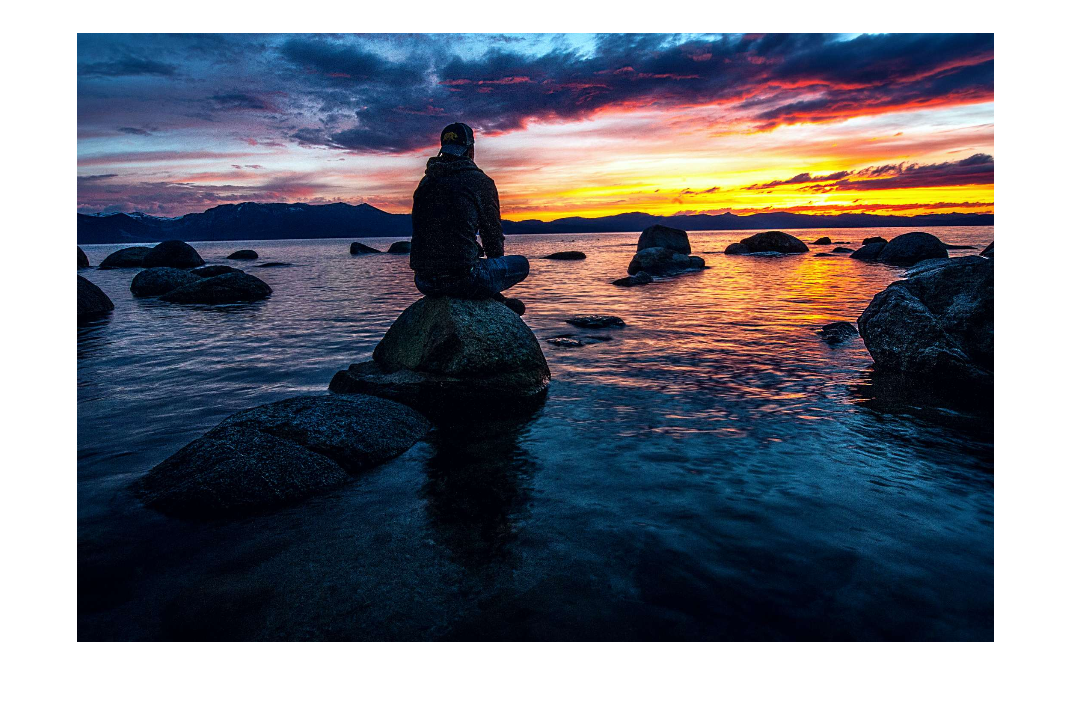
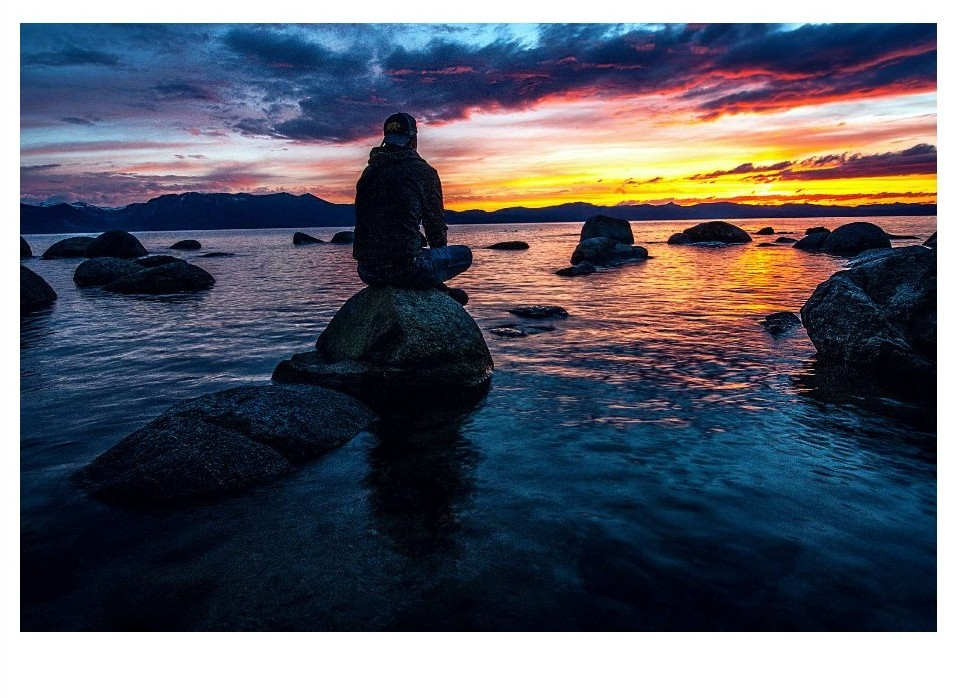
Images Updated, Sections done, Working On Animations

diff --git a/css/style.css b/css/style.css
@@ -3,7 +3,7 @@ font-family: 'Arapey', serif;
 font-family: 'Reem Kufi', sans-serif;*/
 body {
     margin: 0;
-    font-family: 'Reem Kufi', sans-serif;
+    font-family: 'Reem Kufi', sans-serif;position: relative;
 }
 .Hero {
     height: 100vh;
@@ -15,6 +15,8 @@ body {
     flex-direction: column;
     justify-content: center;
     align-items: center;
+    position: absolute;
+    z-index: 1000;
 }
 
 .Logo {
@@ -69,17 +71,16 @@ body {
 .destination1 {
     position:absolute;
     bottom: -70px;
-    left: 0px;
-    width: 600px;
+    left: 120px;
+    width: 300px;
 }
 
 .destination2 {
     position:absolute;
     width: 500px;
     top: 150px;
-    right: 0px;
+    right: 140px;
     z-index: 1;
-    padding-right: 140px;
 }
 
 .destination3 {
@@ -94,9 +95,7 @@ body {
     position:absolute;
     width: 500px;
     bottom: 0px;
-    right: 0px;
-    padding-right: 140px;
-    
+    right: 140px;    
 }
 
 .Section2 {
@@ -118,8 +117,7 @@ body {
     position:absolute;
     width: 250px;
     top: 120px;
-    left: 0;
-    padding-left: 140px;
+    left: 140px;
 }
 
 .adventure2 {
@@ -133,13 +131,116 @@ body {
     position:absolute;
     width: 450px;
     top: 650px;
-    left: -20px;
-    padding-left: 140px;
+    left: 120px;
 }
 
 .adventure4 {
     position:absolute;
-    width: 600px;
+    width: 340px;
     top: 550px;
-    left: 400px;
+    left: 600px;
+}
+
+.Section3 {
+    height: 100vh;
+    width: 100%;
+    display: flex;
+    align-items: center;
+    position: relative;
+}
+
+.Section3 > p{
+    color: #7BC6E4;
+    font-size: 80px;
+    padding-left: 140px;
+}
+
+.meeting1 {
+    position:absolute;
+    width: 350px;
+    top: 150px;
+    right: 140px;
+}
+
+.meeting2 {
+    position:absolute;
+    width: 200px;
+    top: 150px;
+    right: 550px;
+}
+
+.meeting3 {
+    position:absolute;
+    width: 250px;
+    top: 500px;
+    right: 140px;
+}
+
+.meeting4 {
+    position:absolute;
+    width: 250px;
+    top: 500px;
+    right: 500px;
+}
+
+.Section4 {
+    height: 120vh;
+    width: 100%;
+    display: flex;
+    flex-direction: column;
+    align-items: center;
+    justify-content: center;
+    position: relative;
+
+}
+
+.Section4 > p{
+    color: #7BC6E4;
+    font-size: 60px;
+    padding-left: 140px;
+    padding-right: 140px;
+    text-align: center;
+}
+
+form {
+    display: flex;
+    justify-content: center;
+    align-items: center;
+    gap: 90px;
+}
+
+.emailinput {
+    border: transparent;
+    background-color: #7BC6E4;
+    border-radius: 50px;
+    height: 60px;
+    width: 350px;
+    color: white;
+    font-family: 'Reem Kufi', sans-serif;
+    font-weight: 700;
+    font-size: 20px;
+    padding-left: 30px;
+}
+
+::placeholder {
+    color: white;
+    opacity: 0.8;
+}
+
+.submitbutton {
+    border: transparent;
+    border: transparent;
+    background-color: #7BC6E4;
+    border-radius: 50px;
+    height: 60px;
+    width: 140px;
+    color: white;
+    font-family: 'Reem Kufi', sans-serif;
+    font-weight: 700;
+    font-size: 20px;
+    cursor: pointer;
+}
+
+img {
+    box-shadow: 3px 7px 10px rgb(124, 124, 124);
 }

diff --git a/index.html b/index.html
@@ -37,5 +37,19 @@
         <img class="adventure4" src="/Images/Adventure-Image-4.jpg" alt="adventure Image 4">
         <p>Pick A <br /> Destination And <br />Embark On Your<br /> Adventure</p>
     </section>
+    <section class="Section3">
+        <p>Join Group <br /> Hikes, Meet New <br /> People</p>
+            <img class="meeting1" src="/Images/Meeting-Image-1.jpg" alt="meeting image 1">
+            <img class="meeting2" src="/Images/Meeting-Image-2.jpg" alt="meeting image 2">
+            <img class="meeting3" src="/Images/Meeting-Image-3.jpg" alt="meeting image 3">
+            <img class="meeting4" src="/Images/Meeting-Image-4.jpg" alt="meeting image 4">
+        </section>
+    <section class="Section4">
+        <p>Join Us And Make <br /> New Memories</p>
+        <form action="#">
+            <input class="emailinput" type="email" name="email" placeholder="Email">
+            <input class="submitbutton" type="submit" value="Sign Up">
+        </form>
+    </section>
 </body>
 </html>

diff --git a/css/animations.css b/css/animations.css
@@ -1,0 +1,28 @@
+@keyframes logointro {
+    from {
+        opacity: 0;
+    }
+
+    to {
+        opacity: 1;
+    }
+}
+
+.Logo {
+    animation: logointro 2.5s;
+}
+
+@keyframes herooutro {
+    0% {
+
+    }
+    100% {
+        transform: translateY(-1000px);
+    }
+}
+
+.Hero {
+    animation: herooutro 2s;
+    animation-delay: 2.5s;
+    animation-fill-mode: forwards;
+}
